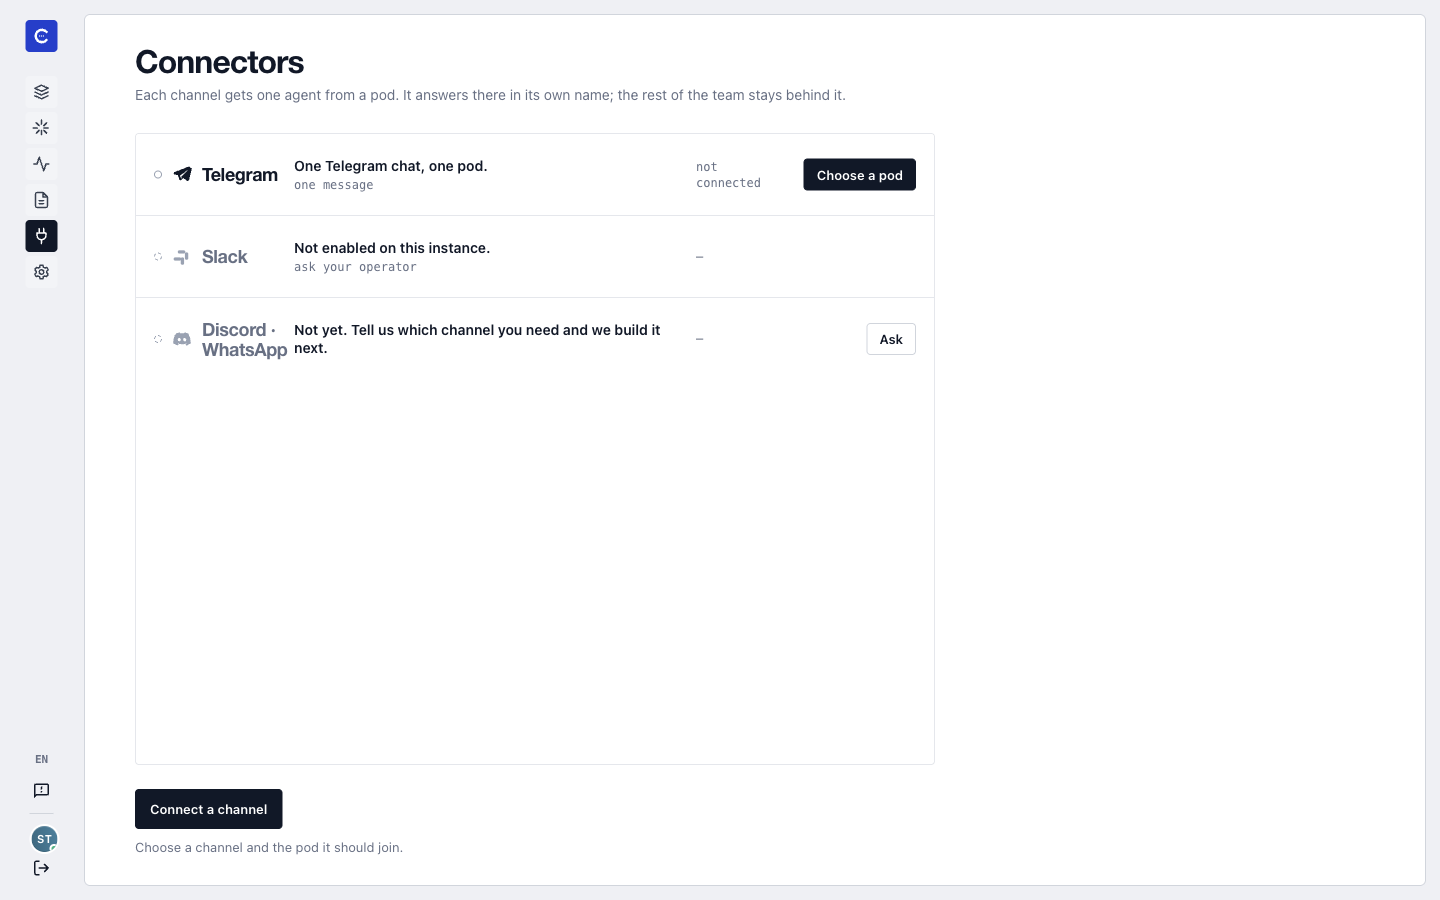
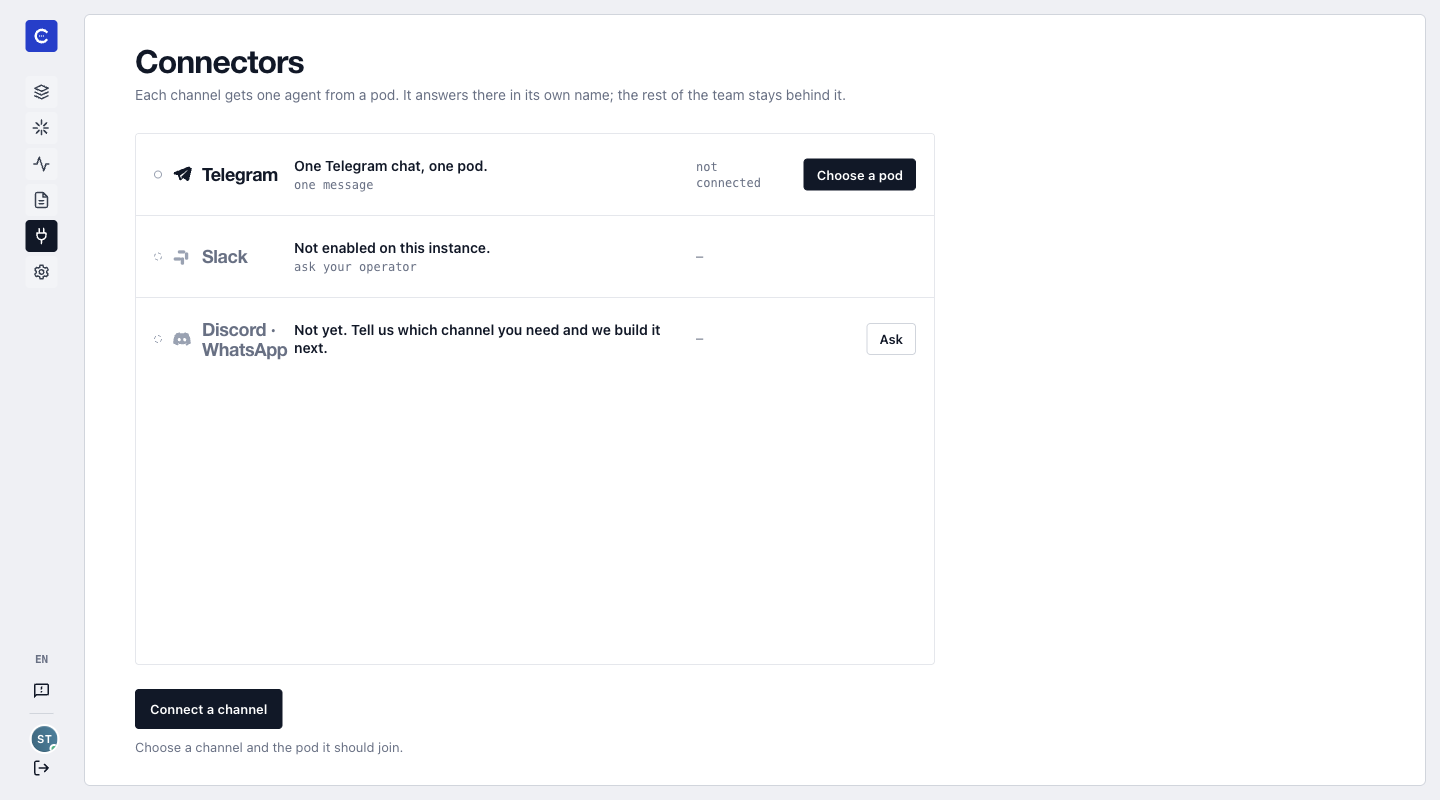
fix(v2): let connector aside yield on small desktops

diff --git a/frontend/src/v2/__tests__/v2-layout-invariants.test.ts b/frontend/src/v2/__tests__/v2-layout-invariants.test.ts
@@ -1730,7 +1730,7 @@ describe('v2 layout invariants (CSS rule presence)', () => {
   it('Signal connectors pin the row grid, aside, colour grammar, and phone collapse', () => {
     expect(ruleBody(v2, '.v2-connector-row')).toContain('grid-template-columns: 140px minmax(150px, 1fr) 100px 120px');
     expect(ruleBody(v2, '.v2-root button.v2-connector-row__selection')).toContain('grid-template-columns: 140px minmax(150px, 1fr) 100px');
-    expect(ruleBody(v2, '.v2-connectors__content')).toContain('grid-template-columns: minmax(0, 1fr) 400px');
+    expect(ruleBody(v2, '.v2-connectors__content')).toContain('grid-template-columns: minmax(min-content, 1fr) minmax(240px, 400px)');
     const connectors = ruleBody(v2, '.v2-connectors');
     expect(connectors).toContain('min-height: calc(100vh - 86px)');
     expect(connectors).not.toContain('max-width');
@@ -1764,6 +1764,7 @@ describe('v2 layout invariants (CSS rule presence)', () => {
     expect(ruleBody(v2, '.v2-tools__trail-line')).toContain('var(--v2-font-mono)');
     expect(ruleBody(v2, '.v2-tools__count strong')).toContain('font-size: 22px');
     expect(ruleBody(v2, '.v2-tools__count span')).toContain('font-size: 11px');
+    expect(connectorCss).toMatch(/@media \(max-width: 1000px\) \{[\s\S]*?\.v2-connectors__content \{ grid-template-columns: minmax\(0, 1fr\); gap: 24px;/);
     expect(connectorCss).toMatch(/@media \(max-width: 760px\) \{[\s\S]*?\.v2-connector-row \{ grid-template-columns: minmax\(0, 1fr\) auto;/);
     expect(connectorCss).toMatch(/@media \(max-width: 760px\) \{[\s\S]*?\.v2-connectors__content \{ grid-template-columns: minmax\(0, 1fr\);/);
     expect(connectorCss).toMatch(/@media \(max-width: 760px\) \{[\s\S]*?\.v2-connectors \{ min-height: 0; gap: 24px; margin: -12px -18px 0;/);

diff --git a/frontend/src/v2/v2.css b/frontend/src/v2/v2.css
@@ -9618,7 +9618,7 @@ body.modern-ui.v2-canvas {
   line-height: 20px;
 }
 .v2-connectors__loading { color: var(--v2-text-tertiary); font-family: var(--v2-font-mono); font-size: 12px; }
-.v2-connectors__content { display: grid; flex: 1; min-height: 0; grid-template-columns: minmax(0, 1fr) 400px; gap: 40px; align-items: stretch; }
+.v2-connectors__content { display: grid; flex: 1; min-height: 0; grid-template-columns: minmax(min-content, 1fr) minmax(240px, 400px); gap: 40px; align-items: stretch; }
 .v2-connectors__main { display: flex; min-width: 0; min-height: 0; flex-direction: column; }
 .v2-connectors__rows { flex: 1; min-height: 0; overflow: hidden; border: 1px solid var(--v2-border-soft); border-radius: var(--v2-radius-sm); }
 
@@ -9810,6 +9810,9 @@ body.modern-ui.v2-canvas {
 .v2-tools__agents { display: grid; gap: 6px; }
 .v2-tools__hint { color: var(--v2-text-secondary); font-size: 12px; line-height: 18px; }
 .v2-tools__hint code { display: inline-block; margin: 0 6px 4px 0; padding: 1px 6px; border: 1px solid var(--v2-border-soft); border-radius: var(--v2-radius-sm); font-family: var(--v2-font-mono); font-size: 12px; white-space: nowrap; }
+@media (max-width: 1000px) {
+  .v2-connectors__content { grid-template-columns: minmax(0, 1fr); gap: 24px; }
+}
 @media (max-width: 760px) {
   .v2-connectors { min-height: 0; gap: 24px; margin: -12px -18px 0; }
   .v2-connectors__content { grid-template-columns: minmax(0, 1fr); gap: 24px; }
